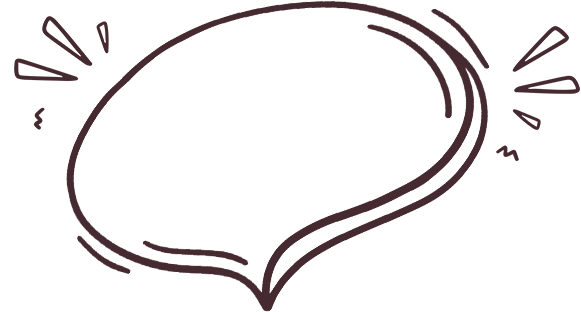
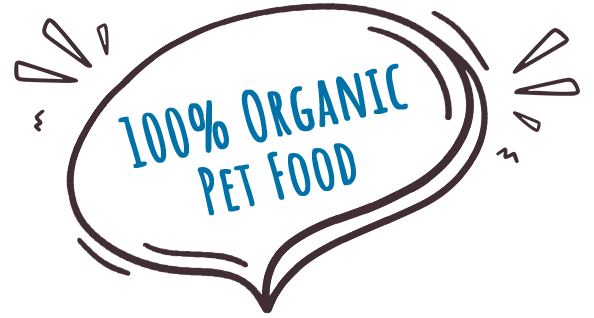
um pouco mais de responsividade tablet

diff --git a/index.html b/index.html
@@ -4,17 +4,17 @@
 		<meta charset="UTF-8" />
 		<meta http-equiv="X-UA-Compatible" content="IE=edge" />
 		<meta name="viewport" content="width=device-width, initial-scale=1.0" />
-		<link rel="stylesheet" href="/styles.css" />
+		<link rel="stylesheet" href="styles.css" />
 		<title>Teste - José Honorio</title>
 	</head>
 	<body>
 		<img
 			class="backBanner-1"
-			src="/assets/topo/banner.jpg"
+			src="assets/topo/banner.jpg"
 			alt="Banner azul com cachorro filhote"
 		/>
 		<header>
-			<img src="/assets/topo/logo.png" alt="Logo da empresa Company Name" />
+			<img src="assets/topo/logo.png" alt="Logo da empresa Company Name" />
 
 			<nav>
 				<a href="#">SHOP FOR DOG</a>
@@ -22,36 +22,34 @@
 				<a href="#">OUR STORY</a>
 				<a href="#">CONTACT US</a>
 			</nav>
+
+			<div class="menu-resp"></div>
 		</header>
 
 		<section class="secaoApresentacao">
-			<img src="/assets/topo/racao.png" alt="Ração premium organica da marca" />
+			<img
+				src="assets/topo/racao.png"
+				alt="Ração premium organica da marca"
+				class="racao"
+			/>
 
 			<div class="alinhamentoBalao">
 				<h1 class="textoApresentacao">
 					<span> Your dog maintain</span>
 					<span> a <strong>Healthier Weght</strong> with</span>
 				</h1>
-				<div class="balaoBanner">
-					<h1
-						style="
-							display: flex;
-							flex-direction: column;
-							align-items: center;
-							justify-content: center;
-						"
-					>
-						<span>100% Organic</span>
-						<span>Pet Food</span>
-					</h1>
-				</div>
+				<img
+					src="assets/topo/balao.png"
+					alt="100% organico"
+					class="balaoBanner"
+				/>
 			</div>
 		</section>
 
 		<section class="nossaHistoria">
 			<img
 				class="cao-1"
-				src="/assets/historia/cao-1.png"
+				src="assets/historia/cao-1.png"
 				alt="Cachoro de lado de forma engraçada"
 			/>
 			<h2>
@@ -73,7 +71,7 @@
 
 			<img
 				class="racao-2"
-				src="/assets/topo/racao.png"
+				src="assets/topo/racao.png"
 				alt="Ração premium organica da marca"
 			/>
 		</section>
@@ -92,14 +90,7 @@
 			</p>
 		</div>
 
-		<div
-			style="
-				display: flex;
-				height: 100vh;
-				justify-content: center;
-				align-items: center;
-			"
-		>
+		<div class="alinhamentoVidaPerfeita">
 			<div class="secaoVidaPerfeita">
 				<h2>The perfect start to life</h2>
 
@@ -114,9 +105,9 @@
 			</div>
 
 			<img
-				src="/assets/historia/cao-2.png"
+				src="assets/historia/cao-2.png"
 				alt="Cachorro preto sorrindo"
-				style="width: 25%"
+				class="cao-2"
 			/>
 		</div>
 
@@ -135,7 +126,7 @@
 					<input placeholder="Search breeds" type="text" />
 
 					<img
-						src="/assets/historia/iconelupa.png"
+						src="assets/historia/iconelupa.png"
 						alt="Botão para pesquisa de breeds"
 						width="25px"
 						style="cursor: pointer"
@@ -146,7 +137,7 @@
 			</div>
 
 			<img
-				src="/assets/historia/cao-3.png"
+				src="assets/historia/cao-3.png"
 				alt="Cachoro de pé alegre"
 				style="position: absolute; width: 20%"
 			/>
@@ -161,12 +152,6 @@
 		</div>
 
 		<div class="breedsRow">
-			<img
-				src="/assets/topo/racao.png"
-				alt="Ração premium organica da marca"
-				width="60%"
-			/>
-
 			<div>
 				<h2 class="tituloBreeds">Find the right food for your dog.</h2>
 
@@ -177,16 +162,14 @@
 
 				<button class="botaoBreeds longo">VIEW ALL PRODUCTS</button>
 			</div>
+			<img
+				src="assets/topo/racao.png"
+				alt="Ração premium organica da marca"
+				class="racao-3"
+			/>
 		</div>
 
 		<footer>
-			<!-- <img
-				src="/assets/historia/cao-footer.jpg"
-				alt="Cachorro com logo da Company Name"
-				width="100%"
-				style="position: absolute; padding: 50px"
-			/> -->
-
 			<nav>
 				<div>
 					<a href="#">SHOP FOR DOG</a>
@@ -204,19 +187,19 @@
 			<address>
 				<a href="#">
 					<img
-						src="/assets/historia/instagram.png"
+						src="assets/historia/instagram.png"
 						alt="Instagram da Company Name"
 					/>
 					<img
-						src="/assets/historia/facebook.png"
+						src="assets/historia/facebook.png"
 						alt="Facebook da Company Name"
 					/>
 					<img
-						src="/assets/historia/twitter.png"
+						src="assets/historia/twitter.png"
 						alt="Twitter da Company Name"
 					/>
 					<img
-						src="/assets/historia/whatsapp.png"
+						src="assets/historia/whatsapp.png"
 						alt="Whatsapp da Company Name"
 					/>
 				</a>

diff --git a/styles.css b/styles.css
@@ -68,7 +68,7 @@ header nav {
 	font-family: 'Amatic SC';
 }
 
-.secaoApresentacao img {
+.racao {
 	position: absolute;
 	width: 35vw;
 	margin-top: 150px;
@@ -80,10 +80,6 @@ header nav {
 }
 
 .alinhamentoBalao {
-	display: flex;
-	flex-direction: column;
-	justify-content: center;
-	align-items: center;
 }
 
 .textoApresentacao {
@@ -91,8 +87,6 @@ header nav {
 	flex-direction: column;
 	font-size: 60px;
 	align-items: center;
-	margin-bottom: 30px;
-	margin-top: 30px;
 	color: var(--marrom);
 }
 .textoApresentacao strong {
@@ -101,15 +95,8 @@ header nav {
 }
 
 .balaoBanner {
-	display: flex;
-	justify-content: center;
-	align-items: center;
-	width: 700px;
-	height: 375px;
-	background-image: url('/assets/topo/balao.png');
-	background-size: cover;
-	margin-left: -20px;
-	margin-top: 40px;
+	width: 40vw;
+	padding-top: 5%;
 }
 
 .balaoBanner h1 {
@@ -226,8 +213,19 @@ header nav {
 	opacity: 0.7;
 }
 
+.alinhamentoVidaPerfeita {
+	display: flex;
+	justify-content: center;
+	padding: 5%;
+}
+
 .secaoVidaPerfeita {
 	width: 50%;
+}
+.cao-2 {
+	margin: auto 0;
+	width: 25%;
+	min-width: 300px;
 }
 
 .secaoVidaPerfeita h2 {
@@ -331,7 +329,12 @@ header nav {
 	display: flex;
 	align-items: center;
 	width: 70%;
-	margin: 200px auto;
+	margin: 10% auto;
+	flex-direction: row-reverse;
+}
+.racao-3 {
+	width: 60%;
+	min-width: 300px;
 }
 .breedsRow p {
 	font-family: Montserrat;
@@ -345,7 +348,7 @@ footer {
 	align-items: flex-end;
 	justify-content: flex-end;
 	margin: 3%;
-	background-image: url('/assets/historia/cao-footer.jpg');
+	background-image: url('assets/historia/cao-footer.jpg');
 	background-repeat: no-repeat;
 	background-size: cover;
 	height: calc(100vw - 60vw);
@@ -385,15 +388,26 @@ address img {
 	.backBanner-1 {
 		display: none;
 	}
+	header {
+		padding: 5%;
+	}
 	header nav a {
 		color: #000;
 	}
-	.secaoApresentacao img {
+	.racao {
+		position: relative;
+		margin: 5%;
+	}
+	.balaoBanner {
 		display: none;
+		position: static;
 	}
 
 	.secaoApresentacao {
 		background-image: url('assets/topo/banner.jpg');
+
+		flex-direction: column-reverse;
+		align-items: center;
 	}
 
 	.cao-1 {
@@ -411,6 +425,10 @@ address img {
 		position: static;
 		padding: 50px;
 	}
+	.racao-2 {
+		margin-left: auto;
+		margin-right: 5%;
+	}
 
 	.secaoFrango p {
 		width: 80%;
@@ -422,5 +440,28 @@ address img {
 
 	.secaoVidaPerfeita {
 		margin-right: 0;
+	}
+	.secaoVidaPerfeita h2 {
+		font-size: 60px;
+	}
+	.breedsRow {
+		flex-direction: column;
+	}
+	.racao-3 {
+		display: none;
+		margin-left: auto;
+	}
+}
+
+@media (max-width: 650px) {
+	header {
+		flex-wrap: nowrap;
+	}
+	.menu-resp {
+		width: 50px;
+		height: 2px;
+		background-color: var(--marrom);
+	}
+	.menu-resp::after {
 	}
 }
